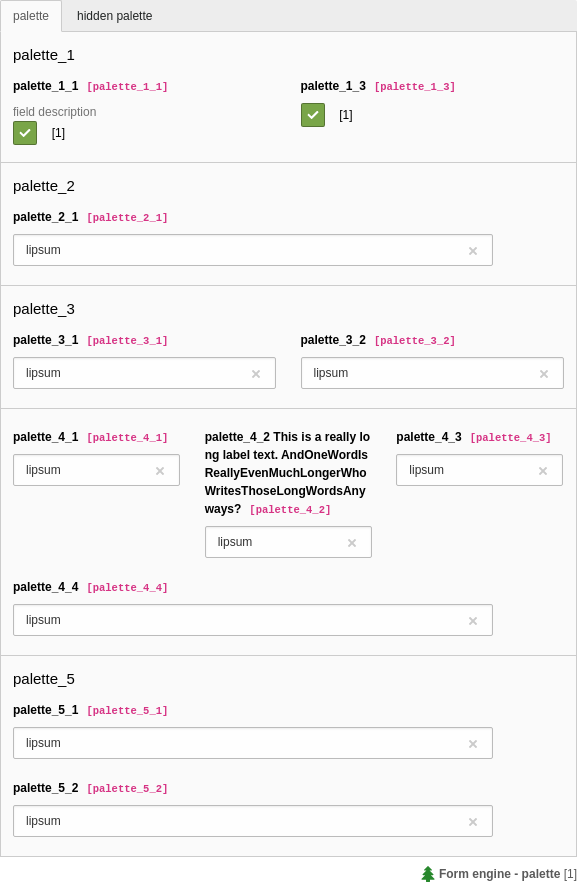
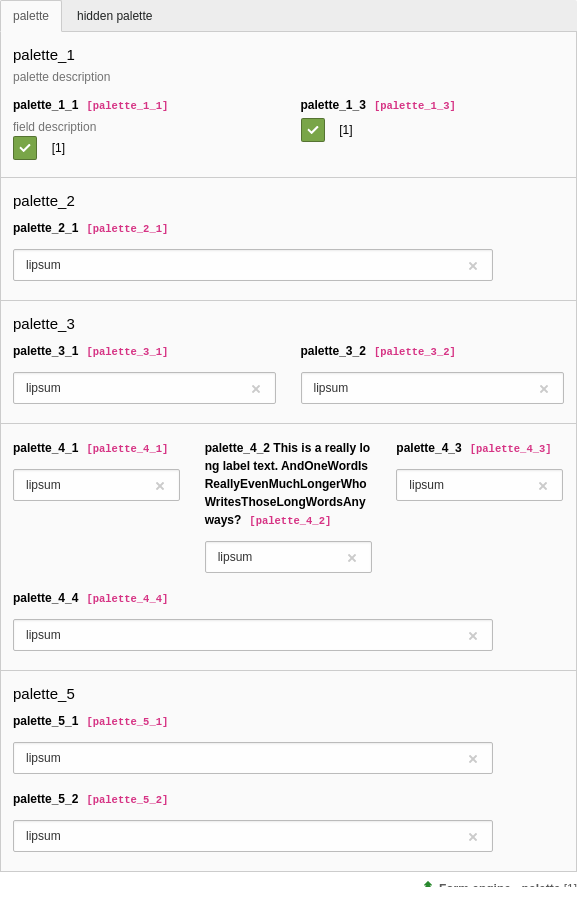
[FEATURE] #89507 - Add description for TCA palettes refs https://github.com/TYPO3-Documentation/TYPO3CMS-Reference-CoreApi/issues/1395

diff --git a/Documentation/Palettes/Properties/Description.rst b/Documentation/Palettes/Properties/Description.rst
@@ -1,0 +1,32 @@
+.. include:: /Includes.rst.txt
+.. _palettes-properties-description:
+
+===========
+description
+===========
+
+.. versionadded:: 11.3
+   The palettes description property has been added with TYPO3 11.3.
+
+.. confval:: description
+
+   :type: string
+
+   Allows to display a localized description text into the palette declaration.
+   It will be displayed below the
+   :ref:`palette label<palettes-properties-label>`.
+
+   This additional help text can be used to clarify some field usages directly
+   in the UI.
+
+   .. note::
+
+      In contrast to the palette label, the description property can not
+      be overwritten on a record type basis.
+
+Example
+=======
+
+.. include:: /Images/Rst/PaletteDescription.rst.txt
+
+.. include:: /CodeSnippets/PaletteDescription.rst.txt

diff --git a/Documentation/Palettes/Properties/Index.rst b/Documentation/Palettes/Properties/Index.rst
@@ -10,4 +10,5 @@ Properties
 
    IsHiddenPalette
    Label
+   Description
    Showitem
